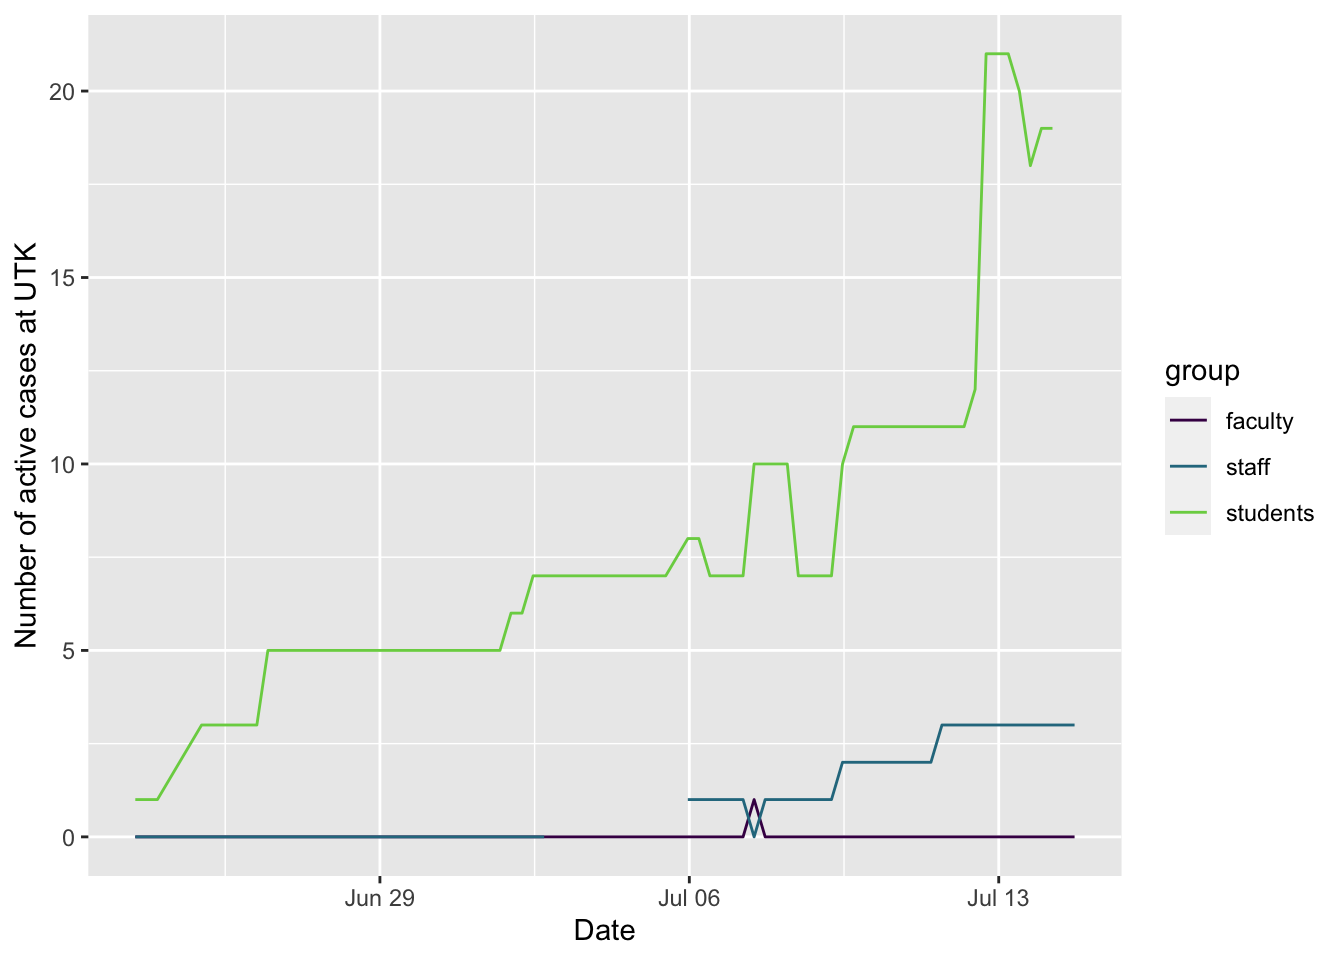
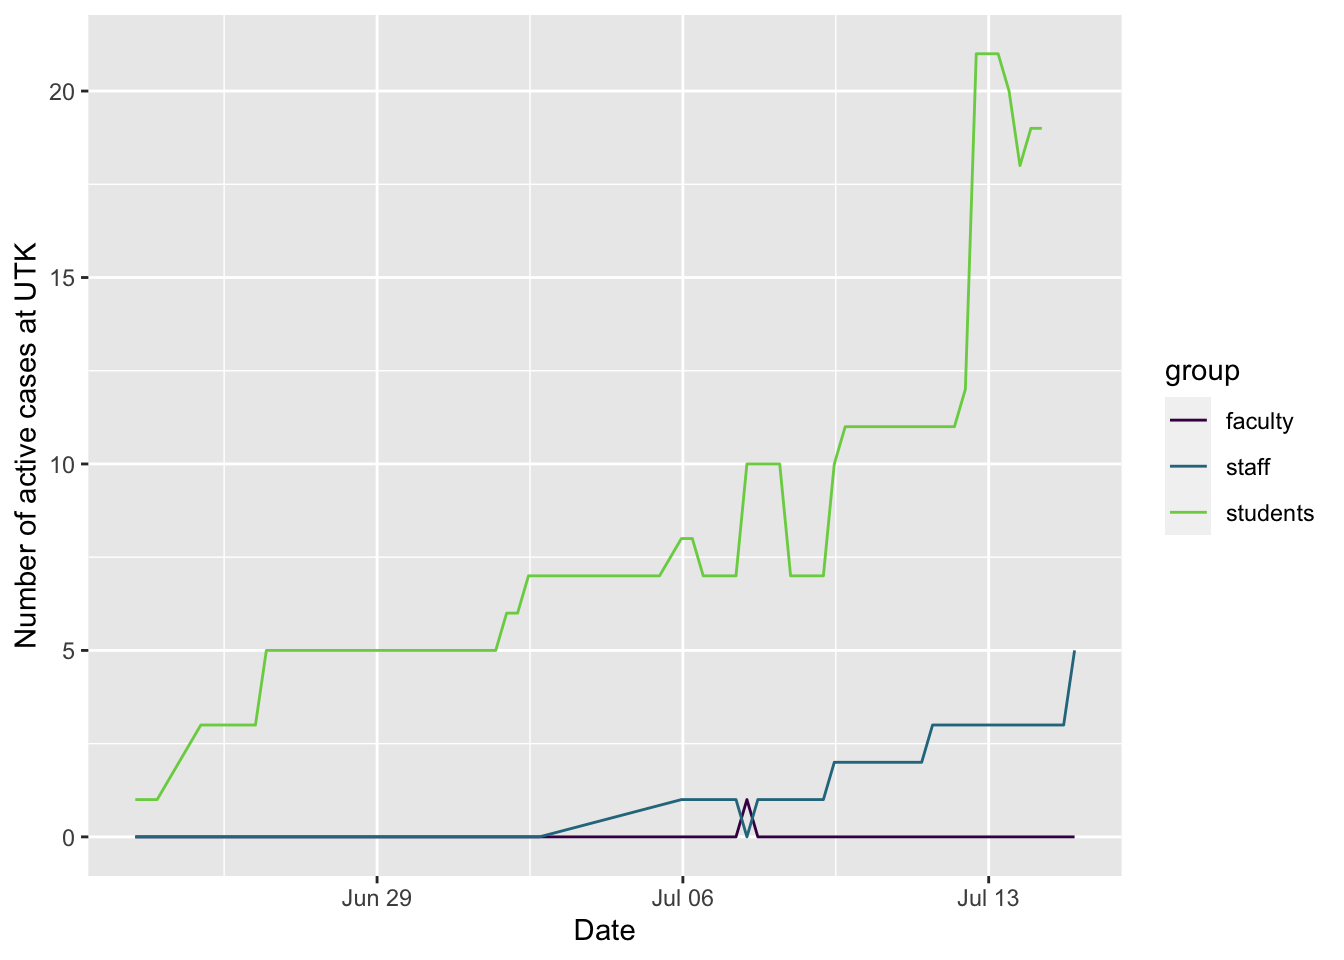
updating site

diff --git a/docs/covid.html b/docs/covid.html
@@ -412,16 +412,18 @@ $(document).ready(function () {
 <li><a href="https://projects.propublica.org/reopening-america/">ProPublica’s tracker of state status</a>. Click on the play button below their map to see how rates are changing over time, and dig into info on your state.</li>
 </ul>
 <hr />
-<p>Here are some plots, created in R using data from <a href="https://covid19datahub.io" class="uri">https://covid19datahub.io</a> (Guidotti, E., Ardia, D., (2020), “COVID-19 Data Hub”, Working paper, doi: 10.13140/RG.2.2.11649.81763), as well as information from Google and the <a href="https://www.tn.gov/health/cedep/ncov/data/downloadable-datasets.html">state of Tennessee dataset page</a> and plotting and analysis using the <code>forecast</code>, <code>ggplot2</code>, <code>reshape2</code>, and <code>dplyr</code> packages. It also uses the <a href="https://github.com/mtna/rds-r">rds-r</a> package from <a href="https://www.richdataservices.com/" class="uri">https://www.richdataservices.com/</a>. Plots created on 2020-07-14 21:17:06. I use <code>ggplot2</code>’s <code>geom_smooth()</code> function for the smoothed regression plots with its default formula, which uses loess smoothing for this many points. This is not based on a model of disease spread or anything similarly sophisticated, just drawing a smooth curve to summarize noisy points (see <a href="https://www.itl.nist.gov/div898/handbook/pmd/section1/pmd144.htm">here</a> for more details).</p>
+<p>Here are some plots, created in R using data from <a href="https://covid19datahub.io" class="uri">https://covid19datahub.io</a> (Guidotti, E., Ardia, D., (2020), “COVID-19 Data Hub”, Working paper, doi: 10.13140/RG.2.2.11649.81763), as well as information from Google and the <a href="https://www.tn.gov/health/cedep/ncov/data/downloadable-datasets.html">state of Tennessee dataset page</a> and plotting and analysis using the <code>forecast</code>, <code>ggplot2</code>, <code>reshape2</code>, and <code>dplyr</code> packages. It also uses the <a href="https://github.com/mtna/rds-r">rds-r</a> package from <a href="https://www.richdataservices.com/" class="uri">https://www.richdataservices.com/</a>. Plots created on 2020-07-14 23:31:31. I use <code>ggplot2</code>’s <code>geom_smooth()</code> function for the smoothed regression plots with its default formula, which uses loess smoothing for this many points. This is not based on a model of disease spread or anything similarly sophisticated, just drawing a smooth curve to summarize noisy points (see <a href="https://www.itl.nist.gov/div898/handbook/pmd/section1/pmd144.htm">here</a> for more details).</p>
 <p>The number of new and active cases should be not be going up if things are well-controlled, and ideally should be going down. The number of active cases is the number of positive cases minus the total of recovered or deceased cases: note it is from those tested and shown to be positive, but there are likely more people with covid who have not been tested. This uses data from <a href="https://www.tn.gov/health/cedep/ncov/data/downloadable-datasets.html" class="uri">https://www.tn.gov/health/cedep/ncov/data/downloadable-datasets.html</a>. Note that the number of active cases in Knox County reported by the state differs from the <a href="https://covid.knoxcountytn.gov/case-count.html#covid_data">county website</a>, sometimes dramatically (on June 16, the county website said 102 active cases, while the state says 178, for example) – I suspect this is based on the number of recovered cases not being updated as quickly in the state data, but I do not know. Knox County does not seem to offer a download of their data through time, so I am using the state’s data. The number of new cases per day seems to align fairly well, but not perfectly, between the state and county data, too.</p>
 <p><img src="covid_files/figure-html/plotsA-1.png" width="672" /><img src="covid_files/figure-html/plotsA-2.png" width="672" /></p>
-<p>A question is whether testing is adequate. The White House has said about 30 tests per 1000 people per month is adequate (this is also what <a href="https://projects.propublica.org/reopening-america/#notes">ProPublica</a> uses); others have argued that around 45 tests per 1000 people per month is better, though with variation depending on infection rate (see <a href="https://www.statnews.com/2020/04/27/coronavirus-many-states-short-of-testing-levels-needed-for-safe-reopening/">here</a>). These are the black lines on the plots below (calculated as tests per day, given Knox County’s population of 470313).</p>
+<p>A question is whether testing is adequate. The White House has said about 30 tests per 1000 people per month is adequate (this is also what <a href="https://projects.propublica.org/reopening-america/#notes">ProPublica</a> uses); others have argued that around 45 tests per 1000 people per month is better, though with variation depending on infection rate (see <a href="https://www.statnews.com/2020/04/27/coronavirus-many-states-short-of-testing-levels-needed-for-safe-reopening/">here</a>). These are the black lines on the plots below (calculated as tests per day, given Knox County’s population of 470313, and assuming 30 days per month).</p>
 <p><img src="covid_files/figure-html/plotsB-1.png" width="672" /></p>
-<p>Another way to look at testing (or disease spread) is to look at the proportion of positive tests (“positivity rate”): they can go up if a greater proportion of symptomatic people are being tested and/or if the frequency of the disease is increasing. WHO recommends testing should be 10% positive or lower (black line). Here, I’m including a nearby county, Anderson (home of Oak Ridge), where some people at UT live and where there are reearch collaborations.</p>
+<p>This can be done for the region. Here are Knox County, Oak Ridge and its counties (Anderson and Roane), and all the East TN counties combined (the same ones used for regional hospital reporting for bed availability). This plots shows the daily number of tests per 1000 residents.</p>
 <p><img src="covid_files/figure-html/plotsB2-1.png" width="672" /></p>
+<p>Another way to look at testing (or disease spread) is to look at the proportion of positive tests (“positivity rate”): they can go up if a greater proportion of symptomatic people are being tested and/or if the frequency of the disease is increasing. Updated WHO guidelines recommend testing should be 5% positive or lower (black line).</p>
+<p><img src="covid_files/figure-html/plotsB3-1.png" width="672" /></p>
 <p>Which age groups are being infected is an important question as local schools open up. These are data from Knox county alone.</p>
 <p><img src="covid_files/figure-html/age2-1.png" width="672" /><img src="covid_files/figure-html/age2-2.png" width="672" /></p>
-<p>Another question is what is happening at UT as campus opens up and testing ramps up. There is some information on active cases available.</p>
+<p>Another question is what is happening at UT as campus opens up and testing ramps up. There is some information on active cases available. Note that this is based on parsing a website without clean tables of data, and which sometimes drops labels for the data.</p>
 <p><img src="covid_files/figure-html/utactive-1.png" width="672" /></p>
 <p>I’ve been curious about how active people have been – are they still going out, etc. The webcams at the bottom of the page are a glimpse of that, but Google has also been tracking activity data. Here are smoothed plots of activity over time, as a percentage of activity pre-COVID19 (the raw data are much more variable).</p>
 <p><img src="covid_files/figure-html/plotsC-1.png" width="672" /></p>
@@ -429,7 +431,7 @@ $(document).ready(function () {
 <h2>
 Hospitalization
 </h2>
-<p>Currently, regional hospitals have 21 ICU beds available of 272 total, and 144 available ventilators out of 242 total. When a line hits 100%, the local hospitals are theoretically full for that resource (for all patients, not just covid patients), though there is surge capacity on top of this. Note that these data are not updated frequently, so current conditions maybe be much better or worse than these plots show. Data from <a href="https://knxhx.richdataservices.com/">https://knxhx.richdataservices.com/</a>.</p>
+<p>Currently, regional hospitals have 21 ICU beds available of 272 total, and 144 available ventilators out of 242 total. This is based on 19 hospitals in the East TN region, serving 1,235,720 people from 14 counties. When a line hits 100%, the local hospitals are theoretically full for that resource (for all patients, not just covid patients), though there is surge capacity on top of this. Note that these data are not updated frequently, so current conditions maybe be much better or worse than these plots show. Data on capacity from <a href="https://knxhx.richdataservices.com/">https://knxhx.richdataservices.com/</a>, data on hospitalizations and testing over time from the state data.</p>
 <p><img src="covid_files/figure-html/hospitalcapacityplot-1.png" width="672" /></p>
 <p>Trends in hospitalization of covid patients over time</p>
 <p><img src="covid_files/figure-html/plotsD-1.png" width="672" /><img src="covid_files/figure-html/plotsD-2.png" width="672" /></p>
